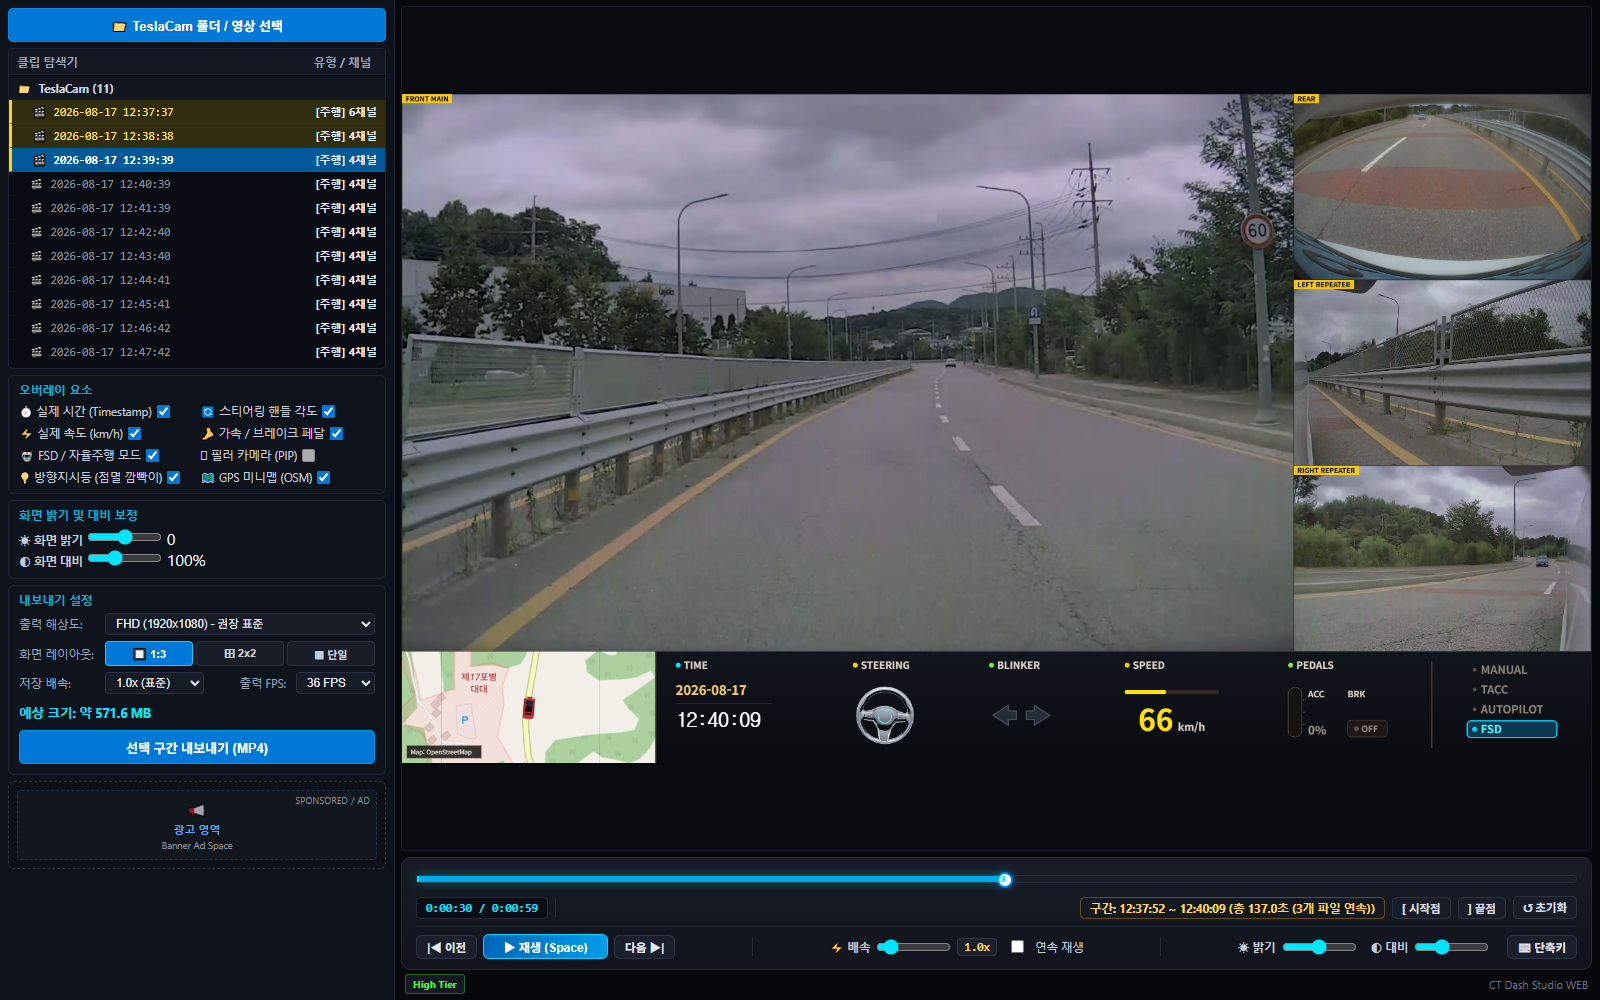
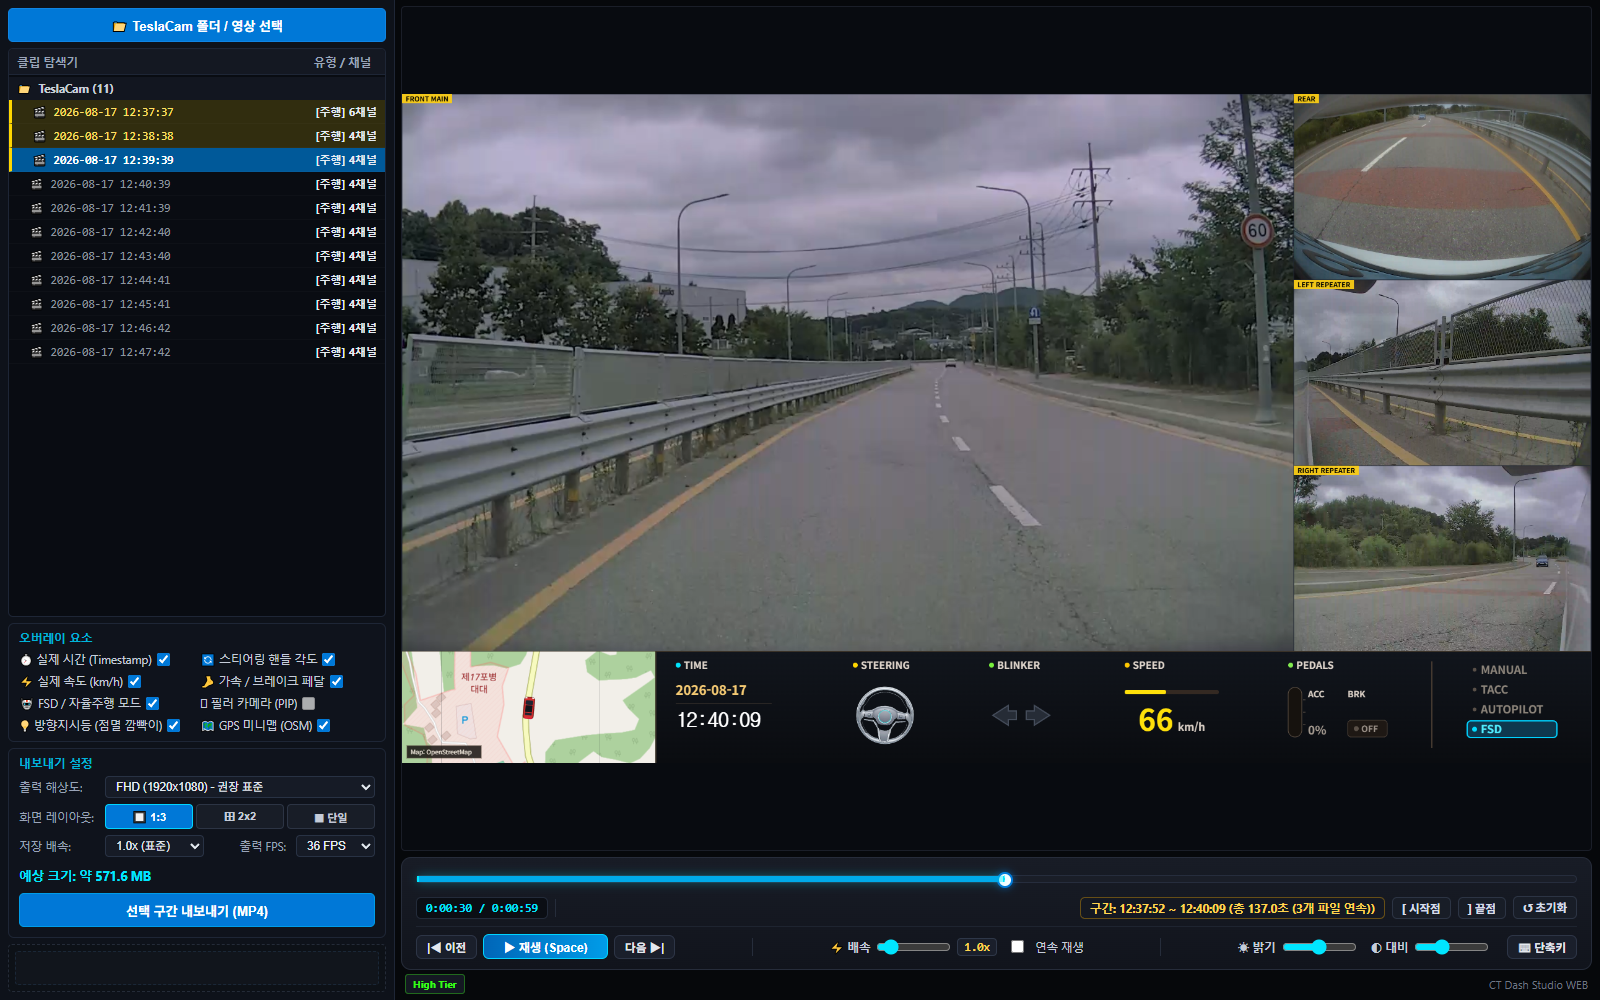
fix(desktop): prevent file list from pushing down checkboxes and clean up ad area text

Changed region(s): [[0.0, 0.372, 0.25, 0.93]]

diff --git a/src/style.css b/src/style.css
@@ -57,6 +57,7 @@ body {
   width: 395px;
   min-width: 370px;
   max-width: 440px;
+  height: 100%;
   background: var(--bg-sidebar);
   border-right: 1px solid var(--border-subtle);
   display: flex;
@@ -64,6 +65,7 @@ body {
   padding: 8px 10px;
   gap: 6px;
   overflow-y: auto;
+  box-sizing: border-box;
 }
 
 .btn-folder-load {
@@ -81,6 +83,7 @@ body {
   justify-content: center;
   gap: 6px;
   transition: all 0.15s ease;
+  flex-shrink: 0;
 }
 
 .btn-folder-load:hover {
@@ -88,16 +91,42 @@ body {
   box-shadow: 0 0 10px rgba(0, 120, 215, 0.45);
 }
 
+/* 1-1. 클립 목록 섹션 (PC 데스크톱: 남은 공간 차지 & 내부 탐색기만 스크롤) */
+.sidebar-section[data-mobile-tab="clips"] {
+  flex: 1 1 0%;
+  min-height: 120px;
+  display: flex;
+  flex-direction: column;
+  overflow: hidden;
+  gap: 6px;
+}
+
 /* 클립 탐색기 테이블 */
 .explorer-card {
-  flex: 1;
-  min-height: 220px;
+  flex: 1 1 0%;
+  min-height: 0;
   background: #090c12;
   border: 1px solid var(--border-subtle);
   border-radius: 5px;
   display: flex;
   flex-direction: column;
   overflow: hidden;
+}
+
+/* 1-2. 오버레이 요소 섹션 (PC 데스크톱: 체크박스가 밑으로 밀려나지 않게 고정) */
+.sidebar-section[data-mobile-tab="overlays"] {
+  flex-shrink: 0;
+  display: flex;
+  flex-direction: column;
+  gap: 6px;
+}
+
+/* 1-3. 내보내기 및 광고 섹션 (PC 데스크톱: 내보내기 폼 영역 고정) */
+.sidebar-section[data-mobile-tab="export"] {
+  flex-shrink: 0;
+  display: flex;
+  flex-direction: column;
+  gap: 6px;
 }
 
 .explorer-header {
@@ -764,61 +793,25 @@ body {
   font-weight: bold;
 }
 
-/* 광고 배너 영역 */
+/* 광고 배너 영역 (추후 광고용 자리 예약 - 글자 없음) */
 .ad-box-group {
-  padding: 8px;
+  padding: 6px;
   background: #0d1117;
-  border: 1px dashed #30363d;
-  min-height: 84px;
+  border: 1px dashed #242b38;
+  min-height: 48px;
+  height: 48px;
   display: flex;
   align-items: center;
   justify-content: center;
+  border-radius: 4px;
 }
 
 .ad-card-placeholder {
   width: 100%;
-  display: flex;
-  flex-direction: column;
-  align-items: center;
-  justify-content: center;
-  background: rgba(22, 27, 34, 0.6);
-  border: 1px dashed rgba(88, 166, 255, 0.2);
-  border-radius: 4px;
-  padding: 8px 6px;
-  position: relative;
-}
-
-.ad-tag {
-  position: absolute;
-  top: 4px;
-  right: 6px;
-  font-size: 8.5px;
-  color: #8b949e;
-  letter-spacing: 0.5px;
-  text-transform: uppercase;
-}
-
-.ad-inner-content {
-  display: flex;
-  flex-direction: column;
-  align-items: center;
-  gap: 2px;
-}
-
-.ad-icon {
-  font-size: 16px;
-  opacity: 0.7;
-}
-
-.ad-title {
-  font-size: 11px;
-  font-weight: 600;
-  color: #58a6ff;
-}
-
-.ad-desc {
-  font-size: 9.5px;
-  color: #8b949e;
+  height: 100%;
+  background: rgba(22, 27, 34, 0.4);
+  border: 1px dashed rgba(88, 166, 255, 0.12);
+  border-radius: 3px;
 }
 
 /* 푸터 바 */
@@ -1085,7 +1078,10 @@ kbd {
 .mobile-top-bar,
 .mobile-tabs-nav,
 .btn-floating-mode,
-.btn-floating-drawer {
+.btn-floating-drawer,
+.mobile-drawer-backdrop,
+.mobile-drawer-header,
+.mobile-adjust-box {
   display: none;
 }
 
@@ -1120,6 +1116,11 @@ kbd {
     padding: 0 12px;
     flex-shrink: 0;
     z-index: 20;
+  }
+
+  body:not(.view-desktop) .mobile-adjust-box,
+  body.view-mobile:not(.view-desktop) .mobile-adjust-box {
+    display: flex !important;
   }
 
   .mobile-brand {
@@ -1925,6 +1926,38 @@ body.view-desktop .main-viewport {
   flex: 1 !important;
   display: flex !important;
   flex-direction: column !important;
+}
+
+body.view-desktop .sidebar-section[data-mobile-tab="clips"] {
+  flex: 1 1 0% !important;
+  min-height: 120px !important;
+  display: flex !important;
+  flex-direction: column !important;
+  overflow: hidden !important;
+}
+
+body.view-desktop .sidebar-section[data-mobile-tab="clips"] .explorer-card {
+  flex: 1 1 0% !important;
+  min-height: 0 !important;
+  display: flex !important;
+  flex-direction: column !important;
+  overflow: hidden !important;
+}
+
+body.view-desktop .sidebar-section[data-mobile-tab="clips"] .explorer-body {
+  flex: 1 1 0% !important;
+  min-height: 0 !important;
+  overflow-y: auto !important;
+}
+
+body.view-desktop .sidebar-section[data-mobile-tab="overlays"],
+body.view-desktop .sidebar-section[data-mobile-tab="export"] {
+  display: flex !important;
+  flex-shrink: 0 !important;
+}
+
+body.view-desktop .mobile-adjust-box {
+  display: none !important;
 }
 
 /* PC 버전 상태에서 모바일 화면 복귀용 우측 하단 플로팅 캡슐 버튼 */

diff --git a/test/test_desktop_files_layout.js b/test/test_desktop_files_layout.js
@@ -1,0 +1,91 @@
+import puppeteer from 'puppeteer-core';
+import * as path from 'path';
+import * as fs from 'fs';
+
+const TEST_DIR = 'E:\\tesla\\project\\testfile\\SavedClips\\2026-08-17_12-48-22';
+const files = fs.readdirSync(TEST_DIR).filter(f => f.endsWith('.mp4')).map(f => path.join(TEST_DIR, f));
+
+async function main() {
+  const browser = await puppeteer.launch({
+    executablePath: 'C:\\Program Files (x86)\\Microsoft\\Edge\\Application\\msedge.exe',
+    headless: 'new',
+    args: ['--window-size=1600,1000']
+  });
+  const page = await browser.newPage();
+  await page.setViewport({ width: 1600, height: 1000 });
+  await page.goto('http://localhost:5173', { waitUntil: 'networkidle0' });
+
+  const inputEl = await page.waitForSelector('#fallback-file-input');
+  await inputEl.uploadFile(...files);
+  await inputEl.evaluate(el => el.dispatchEvent(new Event('change', { bubbles: true })));
+  await page.waitForSelector('.clip-node', { timeout: 10000 });
+  await new Promise(r => setTimeout(r, 1500));
+
+  const layoutReport = await page.evaluate(() => {
+    const sidebar = document.getElementById('sidebar-panel');
+    const clipsSec = document.querySelector('.sidebar-section[data-mobile-tab="clips"]');
+    const tree = document.getElementById('clips-tree');
+    const overlaysSec = document.querySelector('.sidebar-section[data-mobile-tab="overlays"]');
+    const exportSec = document.querySelector('.sidebar-section[data-mobile-tab="export"]');
+    const adBox = document.querySelector('.ad-box-group');
+
+    const sbR = sidebar.getBoundingClientRect();
+    const clR = clipsSec.getBoundingClientRect();
+    const trR = tree.getBoundingClientRect();
+    const ovR = overlaysSec.getBoundingClientRect();
+    const exR = exportSec.getBoundingClientRect();
+    const adR = adBox.getBoundingClientRect();
+
+    return {
+      windowHeight: window.innerHeight,
+      sidebar: {
+        top: sbR.top,
+        bottom: sbR.bottom,
+        height: sbR.height,
+        scrollHeight: sidebar.scrollHeight,
+        clientHeight: sidebar.clientHeight
+      },
+      clipsSection: {
+        top: clR.top,
+        bottom: clR.bottom,
+        height: clR.height
+      },
+      tree: {
+        top: trR.top,
+        bottom: trR.bottom,
+        height: trR.height,
+        scrollHeight: tree.scrollHeight,
+        clientHeight: tree.clientHeight
+      },
+      overlaysSection: {
+        top: ovR.top,
+        bottom: ovR.bottom,
+        height: ovR.height,
+        isVisibleInWindow: ovR.bottom <= window.innerHeight
+      },
+      exportSection: {
+        top: exR.top,
+        bottom: exR.bottom,
+        height: exR.height,
+        isVisibleInWindow: exR.bottom <= window.innerHeight
+      },
+      adBox: {
+        top: adR.top,
+        bottom: adR.bottom,
+        height: adR.height,
+        text: adBox.innerText.trim()
+      }
+    };
+  });
+
+  console.log('Layout Report:', JSON.stringify(layoutReport, null, 2));
+
+  await page.screenshot({ path: 'E:\\tesla\\project\\CT-dashcam-studio-web\\docs\\pc_many_files_test.png' });
+  console.log('Saved screenshot to docs/pc_many_files_test.png');
+  await browser.close();
+}
+
+main().catch(err => {
+  console.error(err);
+  process.exit(1);
+});

diff --git a/index.html b/index.html
@@ -177,16 +177,9 @@
               <div id="export-status-label" class="export-status-text" style="display: none;">대기 중...</div>
             </div>
 
-            <!-- 광고 배너 영역 -->
+            <!-- 광고 배너 영역 (추후 광고용 자리 예약) -->
             <div class="group-box ad-box-group">
-              <div class="ad-card-placeholder">
-                <span class="ad-tag">SPONSORED / AD</span>
-                <div class="ad-inner-content">
-                  <div class="ad-icon">📢</div>
-                  <div class="ad-title">광고 영역</div>
-                  <div class="ad-desc">Banner Ad Space</div>
-                </div>
-              </div>
+              <div class="ad-card-placeholder"></div>
             </div>
           </div>
         </aside>
